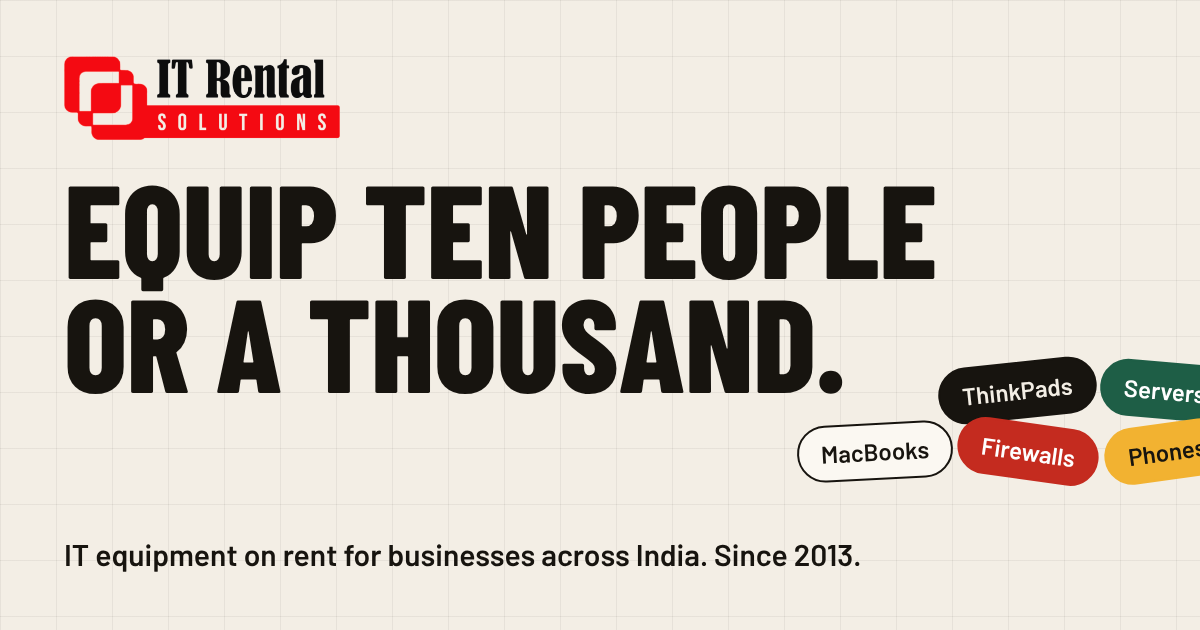
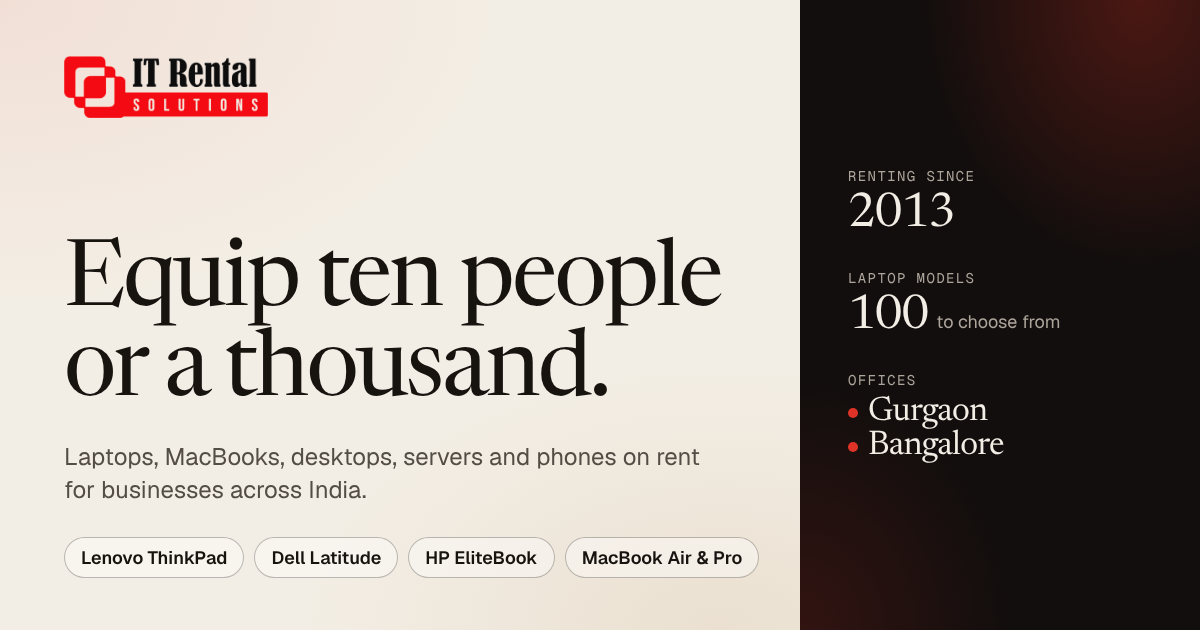
v16: review fixes (copy matches catalogue, share image, schema)
- Laptop and Mac copy now matches the real catalogue (no Core i3/i9 or
  Ryzen; Macs include 2019-2020 Intel models); laptop tiers rewritten
  from the supplied list; IT industry kit lists Core Ultra laptops.
- Home 'Business machines, ready to ship' renamed 'Popular models', as
  every model still needs availability confirmed.
- Link preview image redrawn in the current style (old one showed
  firewalls and the first design).
- Product pages drop Product markup, which Google reports as an error
  without prices; configuration table no longer repeats the processor.

Claude-Session: https://claude.ai/code/session_01Nw7MaYiFrVi54Z8UWkKvok

diff --git a/src/data/categories.ts b/src/data/categories.ts
@@ -42,13 +42,13 @@ export const CATEGORIES: Category[] = [
     hue: 'ink',
     group: 'computing',
     hasCatalogue: true,
-    navBlurb: 'ThinkPad, Latitude, EliteBook. Core i3 to i9.',
+    navBlurb: 'ThinkPad, Latitude, EliteBook. Core i5 to Core Ultra.',
     seoTitle: 'Laptop on Rent for Business | Laptop Rental India',
     seoDescription:
       'Rent business laptops from Lenovo, Dell and HP for teams of 10 to 1,000+. Configured before delivery, supported until return. Get a quote.',
     h1: 'Laptop rental for teams of ten to a thousand',
     intro:
-      'Business laptops from Lenovo ThinkPad, Dell Latitude and HP EliteBook ranges, with Intel Core i3 to i9 or AMD Ryzen processors. Every machine is checked, imaged with the software you specify and labelled before it leaves us, so your people log in on day one.',
+      'Business laptops from the Lenovo ThinkPad, Dell Latitude and HP EliteBook ranges, from 6th Gen Intel Core i5 to the latest Core Ultra, with the processor, memory and storage chosen on each model. Every machine is checked, imaged with the software you specify and labelled before it leaves us, so your people log in on day one.',
     included: [
       'Charger and asset tag with every unit',
       'Windows, Office and your company software pre-installed',
@@ -56,10 +56,10 @@ export const CATEGORIES: Category[] = [
       'Pickup at the end of the rental',
     ],
     tiers: [
-      { name: 'Business essentials', spec: 'Core i5, 8 GB RAM, 256 GB SSD', fit: 'Email, CRM, browser-based work, BPO seats' },
-      { name: 'Productivity', spec: 'Core i5 or i7, 16 GB RAM, 512 GB SSD', fit: 'Heavy spreadsheets, multitasking, analysts' },
-      { name: 'Premium', spec: 'Core i7, 16 GB+ RAM, 512 GB+ SSD', fit: 'Managers, client-facing teams, travel' },
-      { name: 'High performance', spec: 'Newer-generation Core i7 / i9 or Ryzen', fit: 'Developers, data work, design tools' },
+      { name: 'Business essentials', spec: 'Core i5 (6th–8th Gen), 8 GB RAM, 256 GB SSD', fit: 'Email, CRM, browser-based work, BPO seats' },
+      { name: 'Productivity', spec: 'Core i5 (10th–13th Gen), 8–16 GB RAM, 256–512 GB NVMe SSD', fit: 'Heavy spreadsheets, multitasking, analysts' },
+      { name: 'Premium', spec: 'Core Ultra 5 or 7, 16 GB RAM, 512 GB NVMe SSD', fit: 'Managers, client-facing teams, travel' },
+      { name: 'High performance', spec: 'Core Ultra 7 or 9, 32 GB RAM, 1 TB NVMe SSD', fit: 'Developers, data work, design tools' },
     ],
     useCases: [
       { title: 'New office or branch', text: 'Equip a full floor before the lease starts, without a capital purchase order.' },
@@ -83,13 +83,13 @@ export const CATEGORIES: Category[] = [
     hue: 'paper',
     group: 'apple',
     hasCatalogue: true,
-    navBlurb: 'MacBook Air, MacBook Pro and iMac on Apple silicon.',
+    navBlurb: 'MacBook Air and Pro from 2019 to M5, plus iMac.',
     seoTitle: 'MacBook on Rent | MacBook Air & Pro Rental',
     seoDescription:
-      'Rent MacBook Air, MacBook Pro and iMac with Apple silicon for design, development and leadership teams. Monthly rental with support. Get a quote.',
+      'Rent MacBook Air and MacBook Pro from 2019 to M5, M5 Pro and M5 Max, plus iMac, for design, development and leadership teams. Get a quote.',
     h1: 'MacBook rental for design, engineering and leadership teams',
     intro:
-      'MacBook Air and MacBook Pro on Apple silicon, plus iMac for fixed desks. Useful when a project needs macOS for a few months, a design team grows quickly, or new joiners expect a Mac on day one.',
+      'MacBook Air and MacBook Pro in every generation from the 2019 Intel models to M5, plus iMac for fixed desks. Useful when a project needs macOS for a few months, a design team grows quickly, or new joiners expect a Mac on day one.',
     included: [
       'Charger with every unit',
       'Clean macOS install, ready for your MDM enrolment',
@@ -97,8 +97,8 @@ export const CATEGORIES: Category[] = [
       'Data wipe on return',
     ],
     tiers: [
-      { name: 'MacBook Air', spec: 'Apple M-series, 8 GB+, 256 GB+ SSD', fit: 'Product, marketing, leadership' },
-      { name: 'MacBook Pro', spec: 'Apple M-series, higher memory options', fit: 'Developers, video, design' },
+      { name: 'MacBook Air', spec: 'Intel 2019–2020 or M1 to M5, 8–32 GB, 13 or 15 inch', fit: 'Product, marketing, leadership' },
+      { name: 'MacBook Pro', spec: 'M1 to M5, including Pro and Max chips, up to 128 GB', fit: 'Developers, video, design' },
       { name: 'iMac', spec: 'All-in-one desktop', fit: 'Studios, reception, fixed design desks' },
     ],
     useCases: [
@@ -107,7 +107,7 @@ export const CATEGORIES: Category[] = [
       { title: 'Leadership offsites', text: 'Short-term Macs for presentations, events and visiting executives.' },
     ],
     faqs: [
-      { q: 'Which Apple chips do you offer?', a: 'Apple silicon MacBooks (M-series). Exact chip, memory and storage depend on what is in stock for your dates; we confirm it in the quote.' },
+      { q: 'Which Apple chips do you offer?', a: 'Every MacBook Air and MacBook Pro generation from the 2019 Intel models to M5, including Pro and Max chips. Exact chip, memory and storage depend on what is in stock for your dates; we confirm it in the quote.' },
       { q: 'Can the Macs be enrolled in our MDM?', a: 'Yes. We deliver a clean macOS install so your IT team can enrol devices in Jamf, Intune or any other MDM.' },
       { q: 'Do you rent iMacs?', a: 'Yes, for fixed desks and studios. Ask for current configurations.' },
     ],

diff --git a/src/data/industries.ts b/src/data/industries.ts
@@ -9,7 +9,7 @@ export interface Industry {
 
 export const INDUSTRIES: Industry[] = [
   { id: 'bpo', name: 'BPO and KPO', icon: 'headset', need: 'Identical seats for a new process, ready before the client go-live date.', kit: ['Desktops with monitors', 'Business laptops', 'Mini PCs'] },
-  { id: 'it', name: 'IT and software', icon: 'code-xml', need: 'Machines for project teams and contractors, returned when the engagement ends.', kit: ['Core i7 laptops', 'MacBook Pro', 'Test servers'] },
+  { id: 'it', name: 'IT and software', icon: 'code-xml', need: 'Machines for project teams and contractors, returned when the engagement ends.', kit: ['Core Ultra laptops', 'MacBook Pro', 'Test servers'] },
   { id: 'bfsi', name: 'Banking and financial services', icon: 'landmark', need: 'Clean, wipeable devices that IT can lock down to policy for audits and peaks.', kit: ['Business laptops', 'Desktops', 'MacBooks'] },
   { id: 'healthcare', name: 'Healthcare', icon: 'stethoscope', need: 'Front-desk and back-office equipment for new wings, camps and drives.', kit: ['Desktops', 'Monitors', 'Laptops'] },
   { id: 'staffing', name: 'Manpower and outsourcing', icon: 'users', need: 'Devices that follow headcount up and down as contracts change.', kit: ['Laptops', 'Mobile phones', 'Desktops'] },
